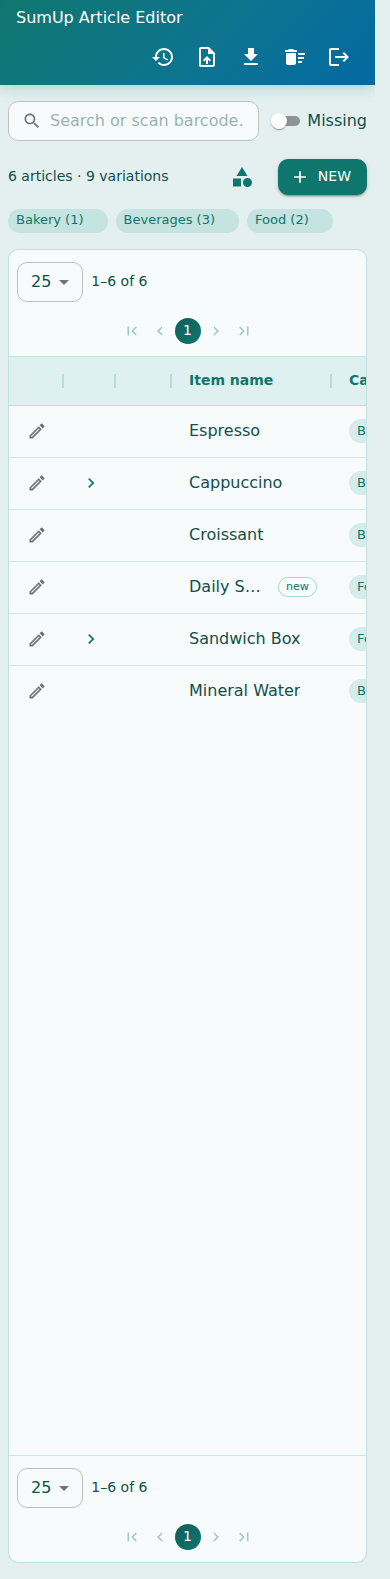
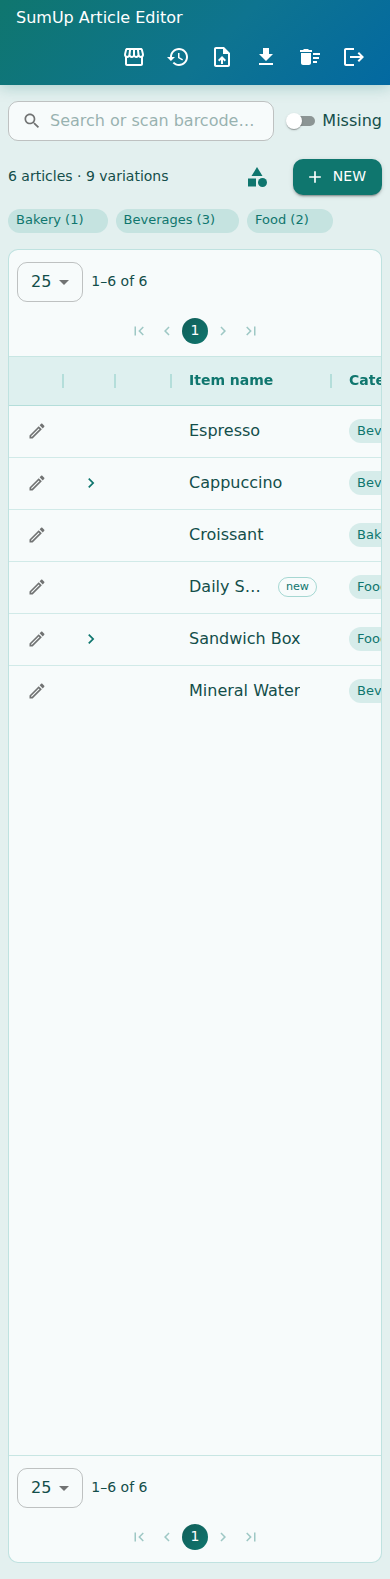
fix scrollbar gutter for mobile test

diff --git a/tests/visual.spec.js b/tests/visual.spec.js
@@ -69,10 +69,15 @@ test.describe('visual regression', () => {
     await expect(page).toHaveScreenshot('dialog-categories.png', { fullPage: true });
   });
 
-  test('mobile home', async ({ page }) => {
-    await page.setViewportSize({ width: 390, height: 844 });
-    await page.goto('/');
-    await waitForArticlesLoaded(page);
-    await expect(page).toHaveScreenshot('mobile-home.png', { fullPage: true });
+  test.describe('mobile', () => {
+    test.use({
+      viewport: { width: 390, height: 844 },
+      isMobile: true,
+      hasTouch: true,
+    });
+
+    test('home', async ({ page }) => {
+      await expect(page).toHaveScreenshot('mobile-home.png', { fullPage: true });
+    });
   });
 });